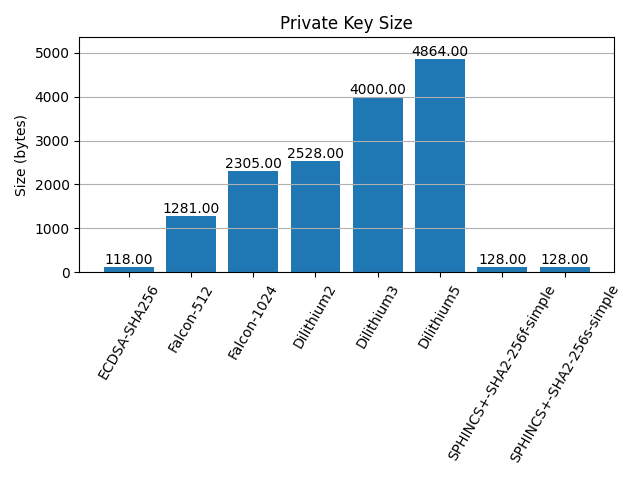
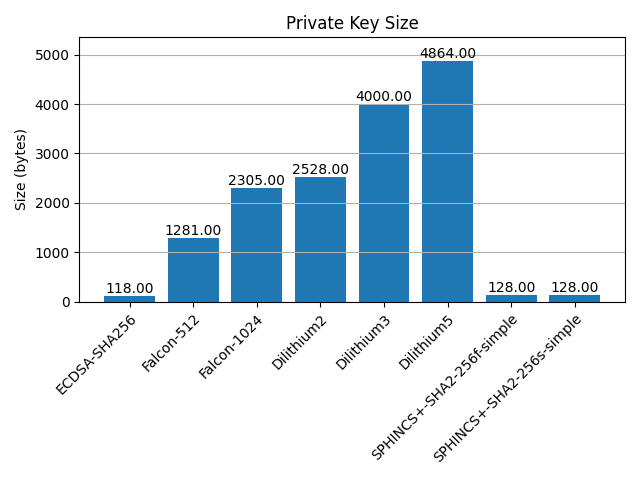
Tidying up plots and updating figures (100 repeats)

diff --git a/measurements/performance_tests.py b/measurements/performance_tests.py
@@ -12,7 +12,7 @@ from cryptography import CryptoProvider
 
 # Test Suite
 class BlockchainTestSuite:
-    def __init__(self, repeat_count=10, block_size=2, difficulty=1):
+    def __init__(self, repeat_count=100, block_size=2, difficulty=1, hash_algorithm='sha512'):
         self.algorithms = algorithms = ['ECDSA-SHA256', 'Falcon-512', 'Falcon-1024', 'Dilithium2', 'Dilithium3', 'Dilithium5', 'SPHINCS+-SHA2-256f-simple', 'SPHINCS+-SHA2-256s-simple']
         self.results = {
             "public_key_size": {},
@@ -26,10 +26,11 @@ class BlockchainTestSuite:
         self.repeat_count = repeat_count
         self.block_size = block_size
         self.difficulty = difficulty
+        self.hash_algorithm = hash_algorithm
 
         self.providers = {}
         for algorithm in self.algorithms:
-            provider = CryptoProvider(algorithm,'sha512')
+            provider = CryptoProvider(algorithm, self.hash_algorithm)
             self.providers[algorithm] = provider
 
     def test_key_and_signature_sizes(self):
@@ -102,8 +103,9 @@ class BlockchainTestSuite:
                 # storage_size = sum(len(str(block).encode()) for block in blockchain.chain)
                 storage_size = asizeof.asizeof(blockchain)
                 storage_usages.append(storage_size)
-
-            self.results["storage_usage"][name] = np.mean(storage_usages)
+            
+            # Take the mean and convert to Kilobytes
+            self.results["storage_usage"][name] = np.mean(storage_usages) / 1024
 
     def run_tests(self):
         print("Running Key and Signature Size Tests...")
@@ -121,7 +123,7 @@ class BlockchainTestSuite:
         self.plot_results("Transaction Time", self.results["transaction_time"], "transaction_time", "Time (ms)")
         self.plot_results("Verification Time", self.results["verification_time"], "verification_time", "Time (ms)")
         self.plot_results("Mining Time", self.results["mining_time"], "mining_time", "Time (ms)")
-        self.plot_results("Blockchain Storage Usage", self.results["storage_usage"], "storage_usage", "Bytes")
+        self.plot_results("Blockchain Storage Usage", self.results["storage_usage"], "storage_usage", "Size (Kilobytes)")
 
     def plot_results(self, title, data, label, ylabel):
         x = list(data.keys())
@@ -131,14 +133,13 @@ class BlockchainTestSuite:
         bars = plt.bar(x, values)  # Store the bar objects
         plt.title(title)
         plt.ylabel(ylabel)
-        plt.xticks(rotation=60)
+        plt.xticks(rotation=45, ha="right", rotation_mode="anchor")
         plt.grid(axis='y')
 
         # Add values on top of each bar
         for bar in bars:
             height = bar.get_height()
             plt.text(bar.get_x() + bar.get_width() / 2.0, height, f'{height:.2f}', ha='center', va='bottom')
-
 
         # Adjust y-axis limits to add some space above the tallest bar
         plt.ylim(0, max(values) * 1.1)  # Add 10% space above the tallest bar
